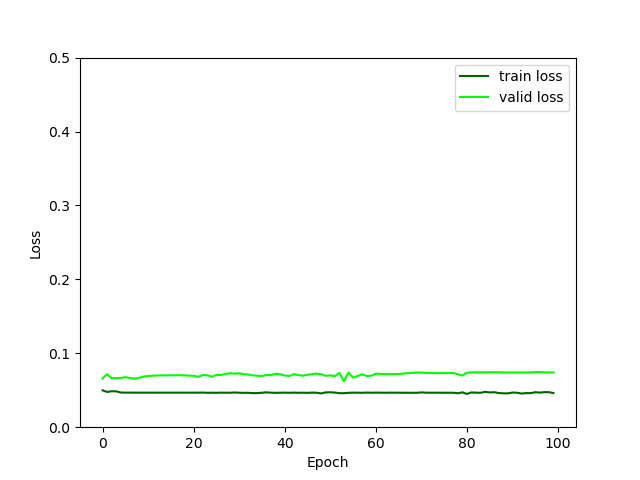
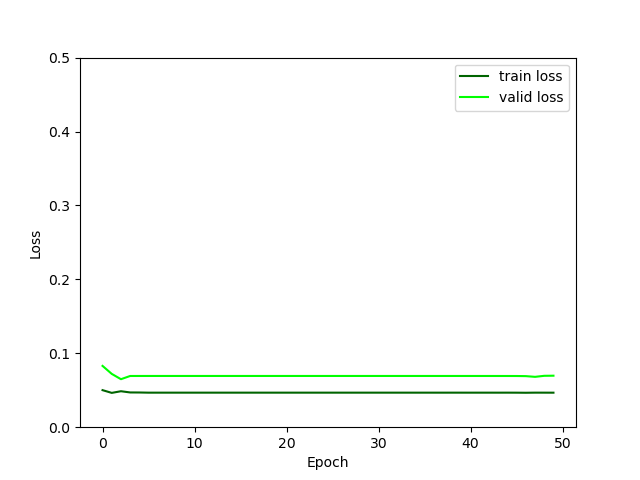
cls ok

diff --git a/brainclip/model/network/image_classifier.py b/brainclip/model/network/image_classifier.py
@@ -57,7 +57,7 @@ optimizer = Adam(model.parameters(), lr=0.001)
 train_loader = BrainCLIPDataLoader("train", batch_size=16)
 val_loader = BrainCLIPDataLoader("valid", batch_size=16)
 
-num_epochs = 100
+num_epochs = 50
 train_losses = []
 val_losses = []
 
